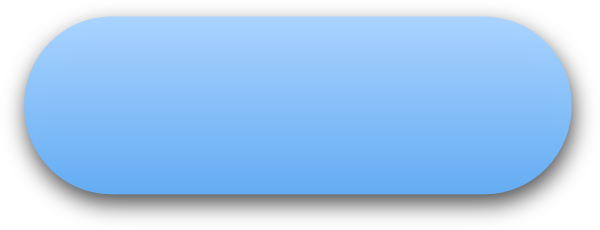
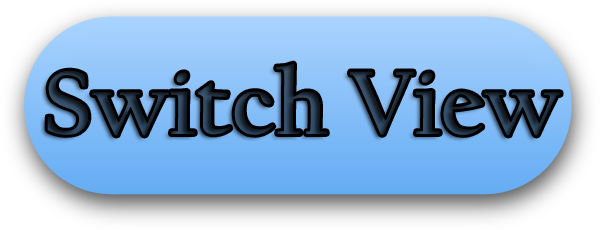
Changed button and added descript text

Changed region(s): [[0.06, 0.2435, 0.57, 0.6087], [0.57, 0.2739, 0.96, 0.6087]]

diff --git a/application/js/visualizer.js b/application/js/visualizer.js
@@ -105,10 +105,9 @@ async function structure_visualisation()
 				.attr("class", "container")
 				.on("mouseover", function(i)
 				{
-					g.style("opacity", .1); 
-					var temp = d3.select(this)
+					d3.select(this)
 						.style("opacity", 1);
-					temp.selectAll(".nodeText")
+					d3.select(this).selectAll(".nodeText")
 						.style("opacity", 1);
 				})
 				.on("mouseout", function()
@@ -183,13 +182,14 @@ function growth_visualisation()
 		var padding = 60;
 		var growthDataWidth = ((svgWidth / 50) * 44) / 1.5 - padding;
 		var growthDataHeight = ((svgHeight / 50) * 44) / 2 - padding - topPadding;
-		var growthDataX = 50;
+		var growthDataX = ((svgWidth / 50) * 12);
 		var growthDataY = ((svgHeight / 50) * 6);
 
 		////////////////////////////////////////////////////////////////////////////////////////
 		////////////////////////////////////////////////////////////////////////////////////////
 		// Actual visualisations for growth analysis - CommitData
 		////////////////////////////////////////////////////////////////////////////////////////
+		addCommitDescript();
 		
 		var maxCommitValue = d3.max(commitData, function(d) { return d; });
 		var commitDataSvg = d3.select('.parentSvg').append('svg')
@@ -259,7 +259,8 @@ function growth_visualisation()
 		////////////////////////////////////////////////////////////////////////////////////////
 		// Actual visualisations for growth analysis - CodeFrequency
 		////////////////////////////////////////////////////////////////////////////////////////
-
+		addCodeDescript();
+		
 		var maxCodeValue = d3.max([getTopValue(codeFrequencyData, 1), getBotValue(codeFrequencyData, 2)], function(d) { return d; });
 		
 		var codeFrequencyDataSvg = d3.select('.parentSvg').append('svg')
@@ -353,6 +354,97 @@ function growth_visualisation()
 			.attr("stroke-width", 2)
 			.attr("fill", "none");
 	});
+}
+
+function addCommitDescript()
+{
+	var commitDescript = parentSvg.append('text');
+		commitDescript
+			.append("tspan")
+			.attr('x', (svgWidth / 50) * 0.5) 
+			.attr('y', (svgHeight / 50) * 9)
+			.style("fill", "green")
+			.attr("font-family", "sans-serif")
+			.attr("font-size", "13px")
+			.attr("text-decoration", "underline")
+			.text("Amount of commits per week:");
+		commitDescript
+			.append("tspan")
+			.attr('x', (svgWidth / 50) * 0.5) 
+			.attr('y', (svgHeight / 50) * 11)
+			.style("fill", "black")
+			.attr("font-family", "sans-serif")
+			.attr("font-size", "11px")
+			.attr("font-style", "italic")
+			.text("This bar chart shows the total amount of commits");
+		commitDescript
+			.append("tspan")
+			.attr('x', (svgWidth / 50) * 0.5) 
+			.attr('y', (svgHeight / 50) * 12)
+			.style("fill", "black")
+			.attr("font-family", "sans-serif")
+			.attr("font-size", "11px")
+			.attr("font-style", "italic")
+			.text("per week, from the past year.");
+		commitDescript
+			.append("tspan")
+			.attr('x', (svgWidth / 50) * 0.5) 
+			.attr('y', (svgHeight / 50) * 14)
+			.style("fill", "black")
+			.attr("font-family", "sans-serif")
+			.attr("font-size", "11px")
+			.attr("font-style", "italic")
+			.text("Hovering over a bar will show the amount and date.");
+}
+
+function addCodeDescript()
+{
+	var commitDescript = parentSvg.append('text');
+		commitDescript
+			.append("tspan")
+			.attr('x', (svgWidth / 50) * 0.5) 
+			.attr('y', (svgHeight / 50) * 29)
+			.style("fill", "green")
+			.attr("font-family", "sans-serif")
+			.attr("font-size", "13px")
+			.attr("text-decoration", "underline")
+			.text("CodeFrequency over time");
+		commitDescript
+			.append("tspan")
+			.attr('x', (svgWidth / 50) * 0.5) 
+			.attr('y', (svgHeight / 50) * 31)
+			.style("fill", "black")
+			.attr("font-family", "sans-serif")
+			.attr("font-size", "11px")
+			.attr("font-style", "italic")
+			.text("This line-graph shows how many lines of code--");
+		commitDescript
+			.append("tspan")
+			.attr('x', (svgWidth / 50) * 0.5) 
+			.attr('y', (svgHeight / 50) * 32)
+			.style("fill", "black")
+			.attr("font-family", "sans-serif")
+			.attr("font-size", "11px")
+			.attr("font-style", "italic")
+			.text("--were removed/added over time.");
+		commitDescript
+			.append("tspan")
+			.attr('x', (svgWidth / 50) * 0.5) 
+			.attr('y', (svgHeight / 50) * 34)
+			.style("fill", "black")
+			.attr("font-family", "sans-serif")
+			.attr("font-size", "11px")
+			.attr("font-style", "italic")
+			.text("Green represents addition.");
+		commitDescript
+			.append("tspan")
+			.attr('x', (svgWidth / 50) * 0.5) 
+			.attr('y', (svgHeight / 50) * 35)
+			.style("fill", "black")
+			.attr("font-family", "sans-serif")
+			.attr("font-size", "11px")
+			.attr("font-style", "italic")
+			.text("Red represents removal.");
 }
 
 // Triggered by clicking `search` button, fetches GH API data, sends it to #search_results()
@@ -747,9 +839,9 @@ function getBotValue(arr, prop)
 
 d3.legend = function(g) 
 {
-  g.each(function() {
+	g.each(function() {
     var g= d3.select(this),
-        items = {},
+		items = {},
         svg = d3.select(g.property("nearestViewportElement")),
         legendPadding = g.attr("data-style-padding") || 5,
         lb = g.selectAll(".legend-box").data([true]),
@@ -758,13 +850,15 @@ d3.legend = function(g)
     lb.enter().append("rect").classed("legend-box",true)
     li.enter().append("g").classed("legend-items",true)
 
-    svg.selectAll("[data-legend]").each(function() {
+    svg.selectAll("[data-legend]").each(function() 
+	{
         var self = d3.select(this)
-        items[self.attr("data-legend")] = {
-          pos : self.attr("data-legend-pos") || this.getBBox().y,
-          color : self.attr("data-legend-color") != undefined ? self.attr("data-legend-color") : self.style("fill") != 'none' ? self.style("fill") : self.style("stroke") 
+        items[self.attr("data-legend")] = 
+		{
+			pos : self.attr("data-legend-pos") || this.getBBox().y,
+			color : self.attr("data-legend-color") != undefined ? self.attr("data-legend-color") : self.style("fill") != 'none' ? self.style("fill") : self.style("stroke") 
         }
-      })
+	})
 
     items = d3.entries(items).sort(function(a,b) { return a.value.pos-b.value.pos})
 

diff --git a/index.html b/index.html
@@ -9,7 +9,7 @@
 		<meta name="Mick Tozer" content="Github Visualisation">
 		
 		<script src="https://d3js.org/d3.v3.min.js" charset="utf-8"></script>
-		<script src="d3.legend.js"></script>
+		<script src="http://labratrevenge.com/d3-tip/javascripts/d3.tip.v0.6.3.js"></script>
 		<script type="text/javascript" src="js/visualizer.js"></script>
 		
 		
